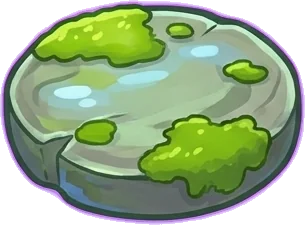
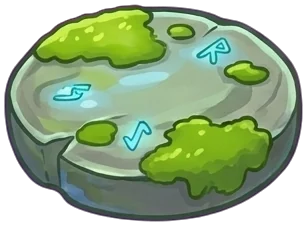
Junior: eieren liggen echt in het nest, stukken zonder paarse randjes en met runen
Claude-Session: https://claude.ai/code/session_01RpQUqCP665mNXjEYSwmuR8

diff --git a/public/junior.css b/public/junior.css
@@ -117,9 +117,16 @@
 .jr-op-steen { position: relative; color: #fff; text-shadow: 0 .05em 0 #233, 0 0 .2em #233; }
 .jr-stenen { background: linear-gradient(transparent 15%, rgb(95 225 255 / .35) 40%, rgb(77 171 247 / .45) 70%, transparent 95%); border-radius: 1em; padding: .6em 1em; }
 
-.jr-nest { display: flex; flex-wrap: wrap; justify-content: center; align-content: center; gap: .2em; max-width: 16em; padding: 1em 1.4em 1.6em; background: url(/img/junior/stuk/2.webp) center bottom / 100% auto no-repeat; min-height: 6em; }
-.jr-nest .jr-ei { width: 2.2em; }
-.jr-nest-vol .jr-ei { width: 2em; }
+.jr .jr-nest { position: relative; display: flex; flex-wrap: wrap; justify-content: center; align-content: flex-end; gap: .15em; width: 18em; max-width: none; padding: 0 3.2em 3.9em; min-height: 11em;
+  background: url(/img/junior/stuk/2.webp) center bottom / 18em auto no-repeat; }
+/* De voorste rand van het nest ligt over de eieren: zo liggen ze echt in het nest. */
+.jr-nest::after { content: ''; position: absolute; left: 0; right: 0; bottom: 0; height: 13.2em; background: url(/img/junior/stuk/2.webp) center bottom / 18em auto no-repeat;
+  clip-path: polygon(0 58%, 20% 64%, 50% 67%, 80% 64%, 100% 58%, 100% 100%, 0 100%); pointer-events: none; z-index: 2; }
+.jr .jr-nest > * { position: relative; z-index: 1; }
+.jr .jr-nest.jr-veel-eieren .jr-ei { width: 1.8em; }
+.jr-nest .jr-ei { width: 2.2em; display: block; }
+.jr .jr-nest .jr-tik { padding: 0; }
+.jr .jr-nest .jr-tik .jr-ei { width: 2.2em; }
 .jr-tikveld { display: flex; flex-wrap: wrap; gap: .5em; justify-content: center; align-items: center; max-width: 24em; }
 .jr-tikveld.jr-veld { max-width: 26em; gap: .8em; }
 .jr .jr-tik { border: 0; background: transparent; padding: .15em; border-radius: 50%; transition: transform .12s ease; }
